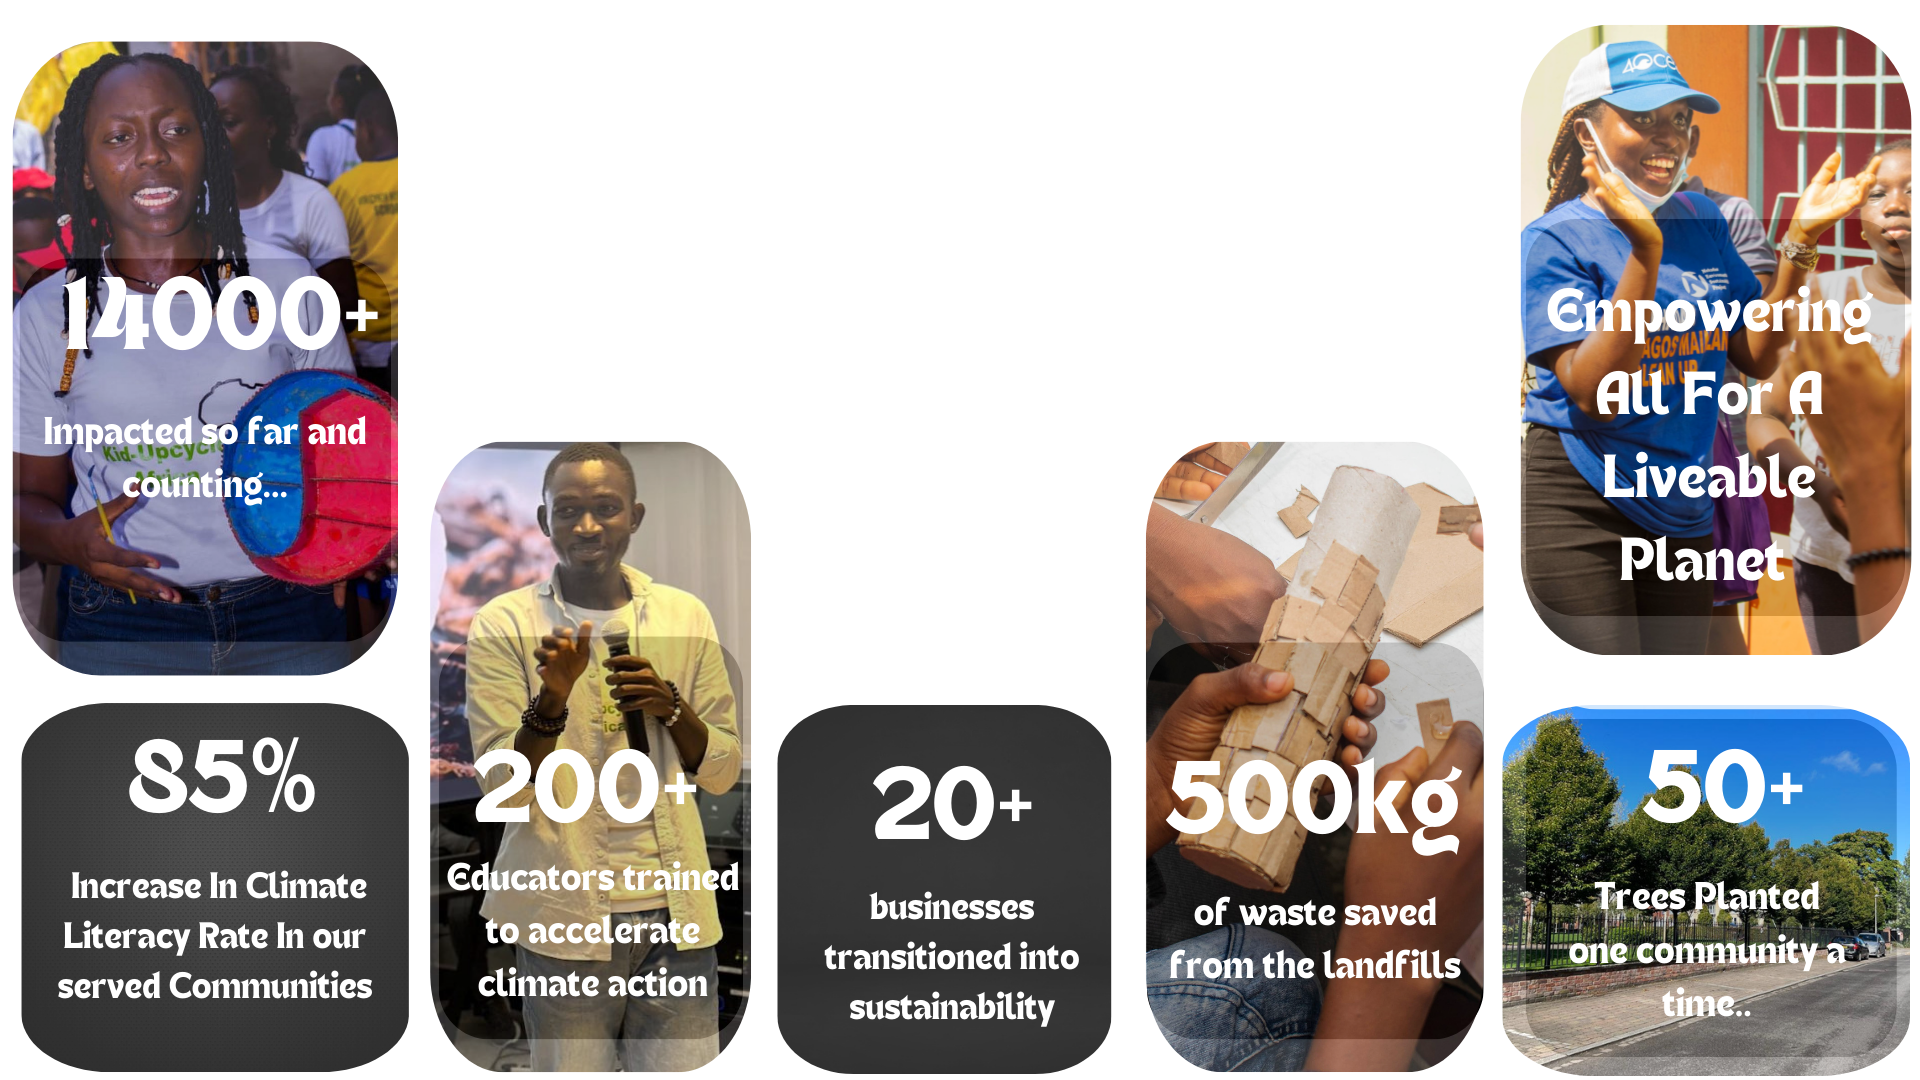
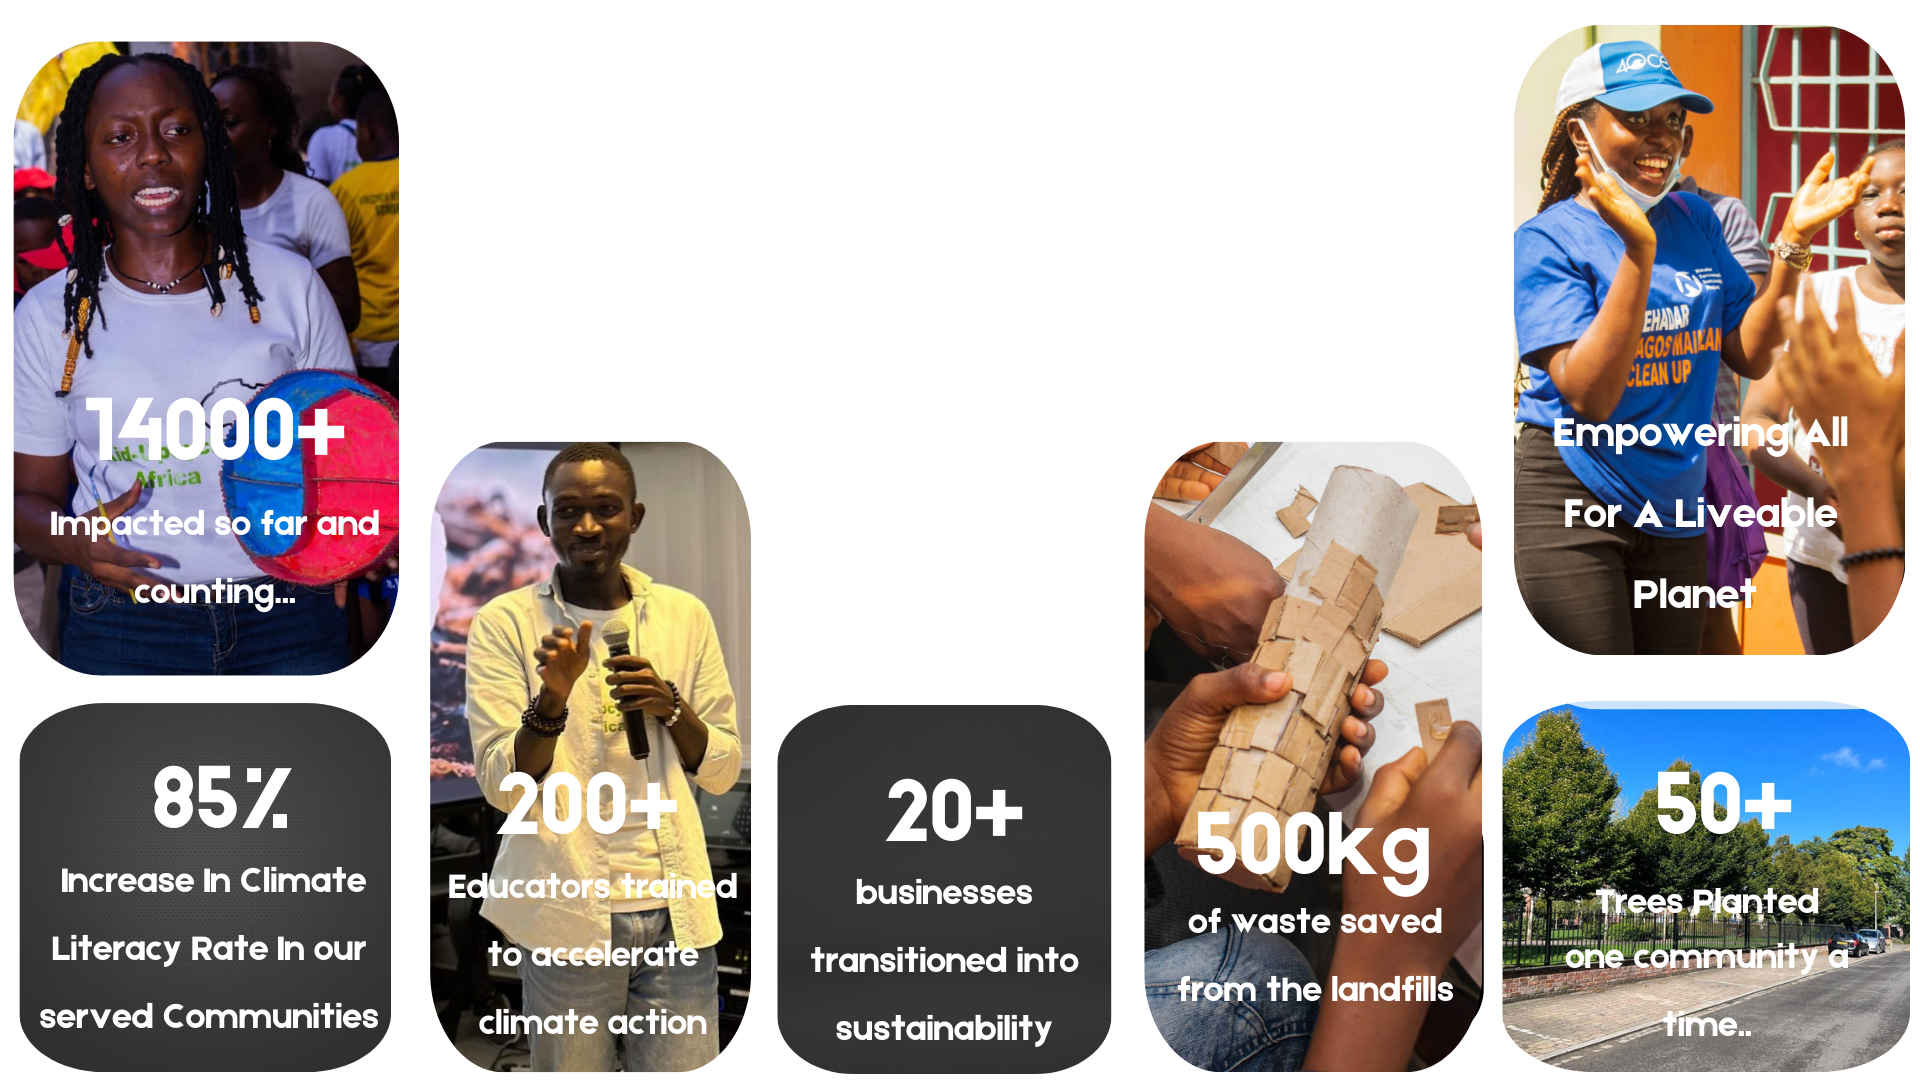
first-footer complete

diff --git a/styles.css b/styles.css
@@ -14,7 +14,7 @@
 
     .header {
         overflow: hidden;
-        background-color: #f1f1f1;
+        /* background-color: #f1f1f1; */
         padding: 15px 0px 5px 5px;
         display: flex;
         align-items: center;
@@ -22,8 +22,8 @@
         margin-bottom: 100px;
     }
       .logo{
-        width: 90px;
-        height: 50px;
+        width: 140px;
+        height: 90px;
         padding: 0;
       }
       
@@ -60,9 +60,10 @@
       }
   
       .buttons button{
-        padding: 12px;
+        padding: 18px;
         border-radius: 15px;
         cursor: pointer;
+        border: none;
       }
       .buttons button:hover{
         background-color: rgb(15, 166, 85);
@@ -75,12 +76,18 @@
         
       }
       /* Add media queries for responsiveness - when the screen is 500px wide or less, stack the links on top of each other */
-      @media screen and (max-width: 600px) {
+      @media screen and (max-width: 800px) {
 
         .header{
             display: flex;
             flex-direction: column;
 
+            .logo{
+                width: 180px;
+                height: 110px;
+                padding: 0;
+              }
+              
             .buttons{
                 display: flex;
                 flex-direction: row;
@@ -151,12 +158,13 @@
         
       }
  }
- @media screen and (max-width: 600px) {
+ @media screen and (max-width: 800px) {
     section{
 
         .hero-text{
-            line-height: 28px;
-            width: 75%;
+            line-height: 40px;
+            width: 85%;
+            font-size: 22px;
             display: flex;
             margin: auto;
             text-align: end;
@@ -164,10 +172,13 @@
             justify-content: center;
             align-items: center;
 
-            
+            p{
+                line-height: 39px;
+            }
         }
+        
         .button-hero button{
-            padding: 12px;
+            padding: 20px;
             border-radius: 15px;
             cursor: pointer;
 
@@ -176,7 +187,7 @@
             display: flex;
             justify-content: center;
             margin-top: 40px;
-            margin-bottom: -30px;
+            margin-bottom: 30px;
         }
         
      } 
@@ -185,14 +196,14 @@
 
     .hero-image{
         width: 100%;
-        padding: 10%;
+        padding: 5%;
     }
  }
  /*our story + numbers section styling*/
  section{
     .our-story{
         width: 100%;
-        padding: 10%;
+        padding-left: 5%;
         display: flex;
         justify-content: center;
         align-items: center;
@@ -225,7 +236,20 @@
         gap: 80px;
     }
  }
- @media only screen and (min-width: 1440px) and (max-width: 1800px) { 
+
+ @media screen and (max-width: 600px) {
+    .how-we-section{
+        width: 100%;
+        padding: 5%;
+        display: flex;
+        flex-direction: column;
+        justify-content: center;
+        align-items: center;
+    
+    }
+ }
+
+ @media only screen and (min-width: 1440px) and (max-width: 1900px) { 
     header{
         margin-bottom: 250px;
 
@@ -249,17 +273,17 @@
     section{
 
         .hero-text{
-            width: 950px;
+            width: 1000px;
             display: flex;
 
             h2{
-                font-size: 46px;
+                font-size: 70px;
                 margin-bottom: 19px;
             }
     
             p{
-                line-height: 55px;
-                font-size: 33px;
+                line-height: 75px;
+                font-size: 43px;
             }
         } 
         .button-hero button{
@@ -275,9 +299,10 @@
             font-size: 24px;
         }
     }
+   
  }
 
- @media only screen and (min-width: 1800px) and (max-width: 2560px) { 
+ @media only screen and (min-width: 2400px) and (max-width: 2560px) { 
     header{
         margin-bottom: 250px;
 
@@ -289,7 +314,8 @@
           
           /* Style the header links */
           .header a {
-            font-size: 46px;
+            font-size: 56px;
+            margin-right: 20px;
            
           }
           .buttons button{
@@ -301,7 +327,7 @@
     section{
 
         .hero-text{
-            width: 1500px;
+            width: 1700px;
             display: flex;
 
             h2{
@@ -310,14 +336,14 @@
             }
     
             p{
-                line-height: 105px;
-                font-size: 53px;
+                line-height: 120px;
+                font-size: 70px;
             }
         } 
         .button-hero button{
             padding: 60px;
             border-radius: 15px;
-            font-size: 50px;
+            font-size: 66px;
             cursor: pointer;
             background-color:  var(--primary-color);
             margin-top: 70px;
@@ -325,11 +351,103 @@
     }
     section{
         .our-story{
-            font-size: 34px;
+            font-size: 44px;
 
             .numbers-section{
                 gap: 50px;
             }
         }
     }
+   
  }
+ section{
+    .how-we-section{
+        display: grid;
+        justify-content: center;
+        align-items: center;
+
+        h1{
+            margin-top: 40px;
+            margin-bottom: 30px;
+            font-size: 27px;
+            text-align: center;
+        }
+    
+    .how-we{
+        width: 100%;
+    }
+}
+ }
+ @media only screen and (min-width: 1000px) and (max-width: 1442px) { 
+ .how-we-section{
+        
+
+    h1{
+        display: grid;
+        justify-content: center;
+        margin-top: 80px;
+        margin-bottom: 130px;
+        font-size: 57px;
+        align-items: center;
+
+    }
+
+.how-we{
+    width: 100%;
+}
+}
+ }
+
+ @media only screen and (min-width: 2400px) and (max-width: 2560px) {  
+    section{
+        .how-we-section{
+            
+    
+            h1{
+                display: grid;
+                justify-content: center;
+                margin-top: 120px;
+                margin-bottom: 90px;
+                font-size: 104px;
+                align-items: center;
+        
+            }
+ }
+}
+  }
+
+  /*footer styling*/
+  footer{
+    background-color: #183f29;
+
+    .auc-footer{
+        display: flex;
+        justify-content: flex-start;
+        justify-content: space-around;
+        padding: 5%;
+
+        .first-footer-text{
+            color: #fff;
+        }
+        .second-footer-text{
+            display: flex;
+            flex-direction: column;
+            gap: 20px;
+
+            a{
+                text-decoration: none;
+                color: #fff;
+            }
+        }
+        .third-footer-text{
+            display: flex;
+            flex-direction: column;
+            gap: 20px;
+            
+            a{
+                text-decoration: none;
+                color: #fff;
+            }
+        }
+    }
+  }

diff --git a/index.html b/index.html
@@ -53,14 +53,14 @@
                 <div class="numbers-section">
                     <div>
                         <h2>2000+</h2>
-                        <p>Children exposed to climate knowledge in vulnerable communities in Africa</p>
+                        <p>Children climate smart in vulnerable communities in Africa</p>
                         <br/>
                         <h2>180+</h2>
-                        <p>Schools onboarded for MyClimateClub by Africa Upcycle Community</p>
+                        <p>Schools with MyClimateClub by AUC</p>
                     </div>
                     <div>
                         <h2>15+</h2>
-                        <p>Schools supported with infrasturcture resources and teacher training</p>
+                        <p>Schools received recycling infrasturcture resources and teacher training</p>
                         <br/>
                         <h2>9000+</h2>
                         <p>Trained climate ready youth trained since 2021</p>
@@ -72,6 +72,38 @@
                 <img src="./image/AUC-mission.png" class="numbers-image"/>
             </div>
         </div>
+    </section>
+    <section>
+        <div class="how-we-section">
+            <h1>How We Do Community-led Projects</h1>
+            <img src="./image/how-we-projects.png" class="how-we"/>
+        </div>
+    </section>
+    <section>
+        <footer>
+            <div class="auc-footer">
+                <div class="first-footer-text">
+                    <img src="./image/AUC_Logo_-bg.png" class="logo"/>
+                    <p>Refining lifestyles, beginning with you</p>
+                    <br/>
+                    <p>mailto: africaupcyclecommunity@gmail.com</p>
+                </div>
+                <div class="second-footer-text">
+                <a class="active" href="#home">Home</a>
+                <a href="#story">Our Story</a>
+                <a class="active" href="#home">Internship</a>
+                <a href="#contact">Partner With Us</a>
+                <a class="active" href="#home">Volunteer With Us</a>
+                </div>
+                <div class="third-footer-text">
+                <a href="#story">Instagram</a>
+                <a href="#contact">Linkedin</a>
+                <a href="#contact">Twitter</a>
+                <a href="#contact">YouTube</a>
+                <a href="#contact">Facebook</a>
+                </div>
+            </div>
+        </footer>
     </section>
 </body>
 </html>
